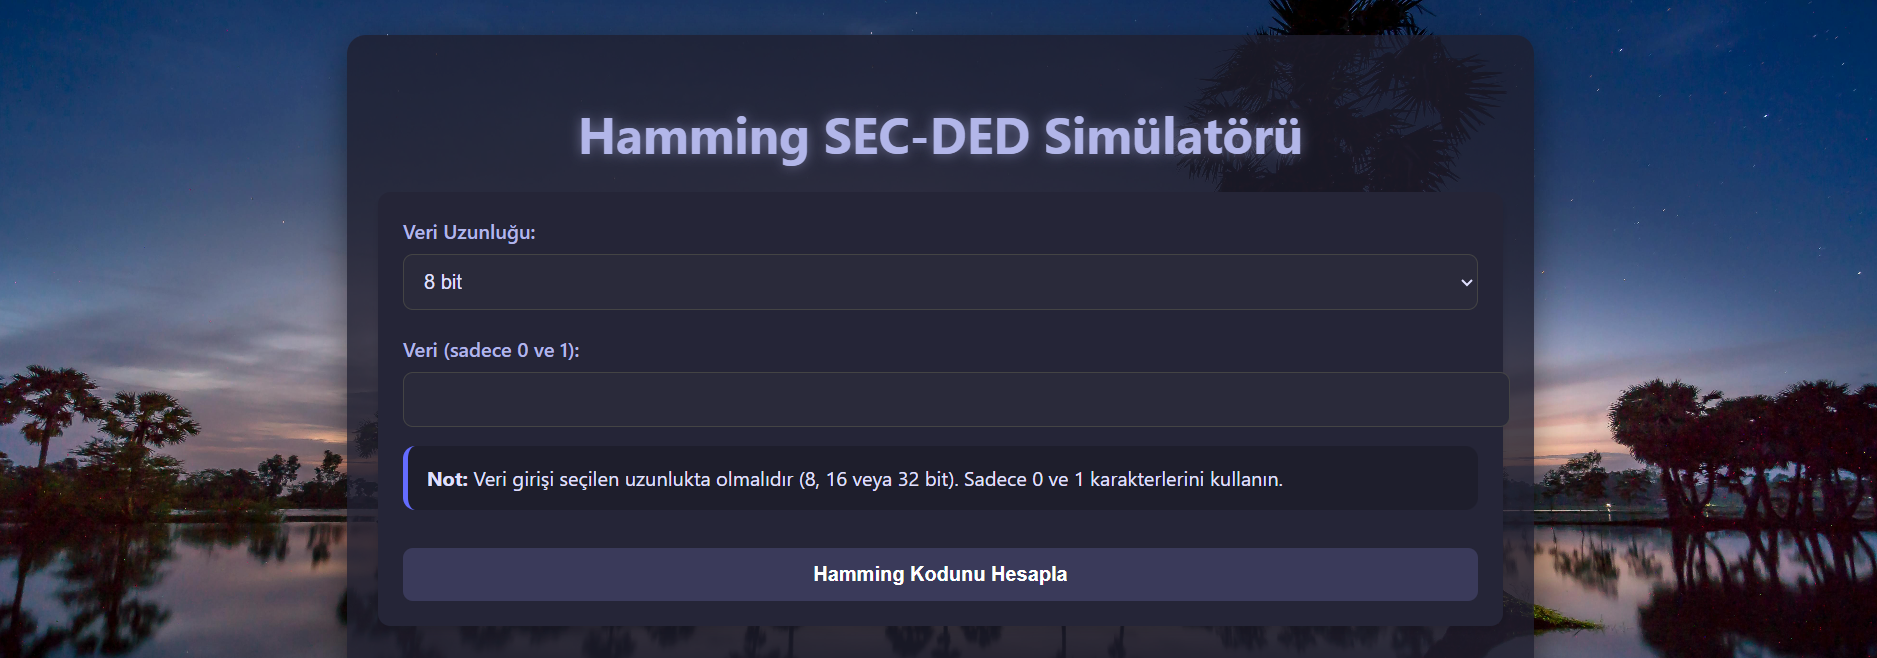
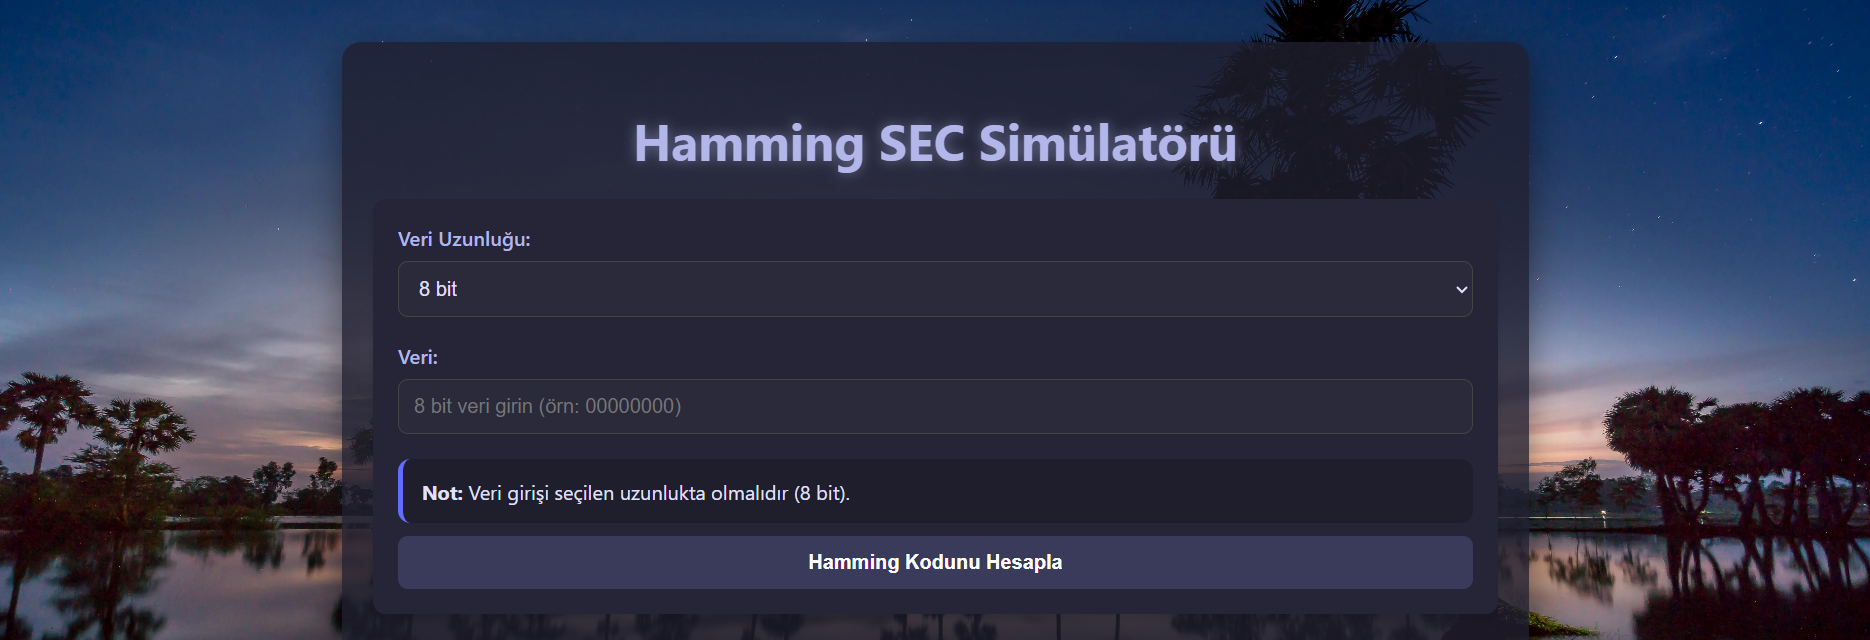
Max Karakter
Seçili olan veri biti sayısına göre girilebilecek max uzunluğu ekledim. Ona göre de fotoğrafları değiştim.

diff --git a/index.html b/index.html
@@ -81,6 +81,7 @@
       background: #2a2a3a;
       color: var(--text-color);
       font-size: 1rem;
+      box-sizing: border-box;
     }
     
     input:focus, select:focus {
@@ -244,7 +245,7 @@
 </head>
 <body>
   <div class="container">
-    <h1>Hamming SEC-DED Simülatörü</h1>
+    <h1>Hamming SEC Simülatörü</h1>
     
     <div class="card">
       <form id="hammingForm">
@@ -258,13 +259,12 @@
         </div>
         
         <div class="form-group">
-          <label for="dataInput">Veri (sadece 0 ve 1):</label>
-          <input type="text" id="dataInput" maxlength="32" required>
+          <label for="dataInput">Veri:</label>
+          <input type="text" id="dataInput" maxlength="8" required>
         </div>
         
         <div class="info-box" id="inputNote">
-          <strong>Not:</strong> Veri girişi seçilen uzunlukta olmalıdır (8, 16 veya 32 bit). 
-          Sadece 0 ve 1 karakterlerini kullanın.
+          <strong>Not:</strong> Veri girişi seçilen uzunlukta olmalıdır (<span id="currentLength">8</span> bit). 
         </div>
         
         <button type="submit">Hamming Kodunu Hesapla</button>
@@ -286,7 +286,7 @@
       </div>
       
       <div class="form-group">
-        <label for="errorPosition">Hatalı bit pozisyonu gir (1’den başlayarak):</label>
+        <label for="errorPosition">Hatalı bit pozisyonu gir (1'den başlayarak):</label>
         <input type="number" id="errorPosition" min="1">
       </div>
       
@@ -329,7 +329,7 @@
       const r = calculateParityBitsLength(m);
       const n = m + r; // n = m + r
 
-      // 2.2. “1-based” index için n+1 uzunluğunda dizi (code[0] kullanılmayacak)
+      // 2.2. "1-based" index için n+1 uzunluğunda dizi (code[0] kullanılmayacak)
       let code = new Array(n + 1).fill(0);
       let dataIndex = 0;
 
@@ -370,16 +370,68 @@
       };
     }
 
+    // Bit uzunluğu değiştiğinde çağrılacak fonksiyon
+    function updateMaxLength() {
+      const bitLength = parseInt(document.getElementById("bitLength").value);
+      const dataInput = document.getElementById("dataInput");
+      const currentLengthSpan = document.getElementById("currentLength");
+      
+      // Input'un maxlength özelliğini güncelle
+      dataInput.setAttribute("maxlength", bitLength);
+      
+      // Mevcut değeri kontrol et ve gerekirse kes
+      if (dataInput.value.length > bitLength) {
+        dataInput.value = dataInput.value.substring(0, bitLength);
+      }
+      
+      // Bilgi metnini güncelle
+      currentLengthSpan.textContent = bitLength;
+      
+      // Placeholder'ı güncelle
+      dataInput.placeholder = `${bitLength} bit veri girin (örn: ${'0'.repeat(bitLength)})`;
+      
+      // Sonuç bölümünü gizle
+      document.getElementById("resultSection").style.display = "none";
+      
+      // Hata mesajlarını temizle
+      document.getElementById("syndromeResult").innerText = "";
+      document.getElementById("syndromeResult").classList.remove("error-message");
+      document.getElementById("inputNote").classList.remove("error-message");
+    }
+
+    // Sayfa yüklendiğinde ve bit uzunluğu değiştiğinde çalıştır
+    document.getElementById("bitLength").addEventListener("change", updateMaxLength);
+    
+    // Sayfa ilk yüklendiğinde çalıştır
+    document.addEventListener("DOMContentLoaded", updateMaxLength);
+
+    // Input'a sadece 0 ve 1 girilmesini sağla
+    document.getElementById("dataInput").addEventListener("input", function(e) {
+      // Sadece 0 ve 1 karakterlerini kabul et
+      this.value = this.value.replace(/[^01]/g, '');
+      
+      // Maksimum uzunluğu kontrol et
+      const maxLength = parseInt(this.getAttribute("maxlength"));
+      if (this.value.length > maxLength) {
+        this.value = this.value.substring(0, maxLength);
+      }
+    });
+
     // Form submit işlemi
     document.getElementById("hammingForm").addEventListener("submit", function (e) {
       e.preventDefault();
+
+      // Her hesaplamadan önce kutuları ve sonucu temizle
+      document.getElementById("hammingCodeDisplay").innerHTML = "";
+      document.getElementById("syndromeResult").innerText = "";
+      document.getElementById("syndromeResult").classList.remove("error-message");
 
       const bitLen = parseInt(document.getElementById("bitLength").value);
       const dataInput = document.getElementById("dataInput").value.trim();
       const syndromeBox = document.getElementById("syndromeResult");
       const inputNote = document.getElementById("inputNote");
 
-      // 3.1. Uzunluk ve sadece “0/1” kontrolü
+      // 3.1. Uzunluk ve sadece "0/1" kontrolü
       if (dataInput.length !== bitLen || !/^[01]+$/.test(dataInput)) {
         syndromeBox.innerText = `Lütfen ${bitLen} uzunluğunda, yalnızca 0 ve 1 karakterleri içeren veri girin.`;
         syndromeBox.classList.add("error-message");
@@ -398,7 +450,7 @@
       // Genel pariteyi kaldır
       document.getElementById("overallParity").innerText = "";
 
-      // 3.4. Hamming kodunu “kutucuk” olarak ekrana bas (soldan → sağa 1..n)
+      // 3.4. Hamming kodunu "kutucuk" olarak ekrana bas (soldan → sağa 1..n)
       const display = document.getElementById("hammingCodeDisplay");
       display.innerHTML = "";
       const codeArr = result.code;    // length = n (m + r)
@@ -425,7 +477,7 @@
     });
 
     // ------------------------------------------------------------
-    // 4) introduceError(): “soldan” sayılan pozisyonu alıp toggle yapar
+    // 4) introduceError(): "soldan" sayılan pozisyonu alıp toggle yapar
     function introduceError() {
       const posInput = document.getElementById("errorPosition").value.trim();
       const display = document.getElementById("hammingCodeDisplay");
@@ -446,7 +498,7 @@
         return;
       }
 
-      // 4.1. Tüm “error” / “syndrome” sınıflarını temizle, mesajı sıfırla
+      // 4.1. Tüm "error" / "syndrome" sınıflarını temizle, mesajı sıfırla
       for (let i = 0; i < n; i++) {
         display.children[i].classList.remove("error", "syndrome");
       }
@@ -471,7 +523,7 @@
     }
 
     // ------------------------------------------------------------
-    // 5) detectError(): Hem parity sendromlarını hem overall parity’yi kontrol eder
+    // 5) detectError(): Hem parity sendromlarını hem overall parity'yi kontrol eder
     function detectError() {
       const display = document.getElementById("hammingCodeDisplay");
       const n = display.children.length;
@@ -520,7 +572,7 @@
     }
 
     // ------------------------------------------------------------
-    // 6) correctError(): detectError() sonucu sendrom’a göre düzeltme yapar
+    // 6) correctError(): detectError() sonucu sendrom'a göre düzeltme yapar
     function correctError() {
       const display = document.getElementById("hammingCodeDisplay");
       const n = display.children.length;
